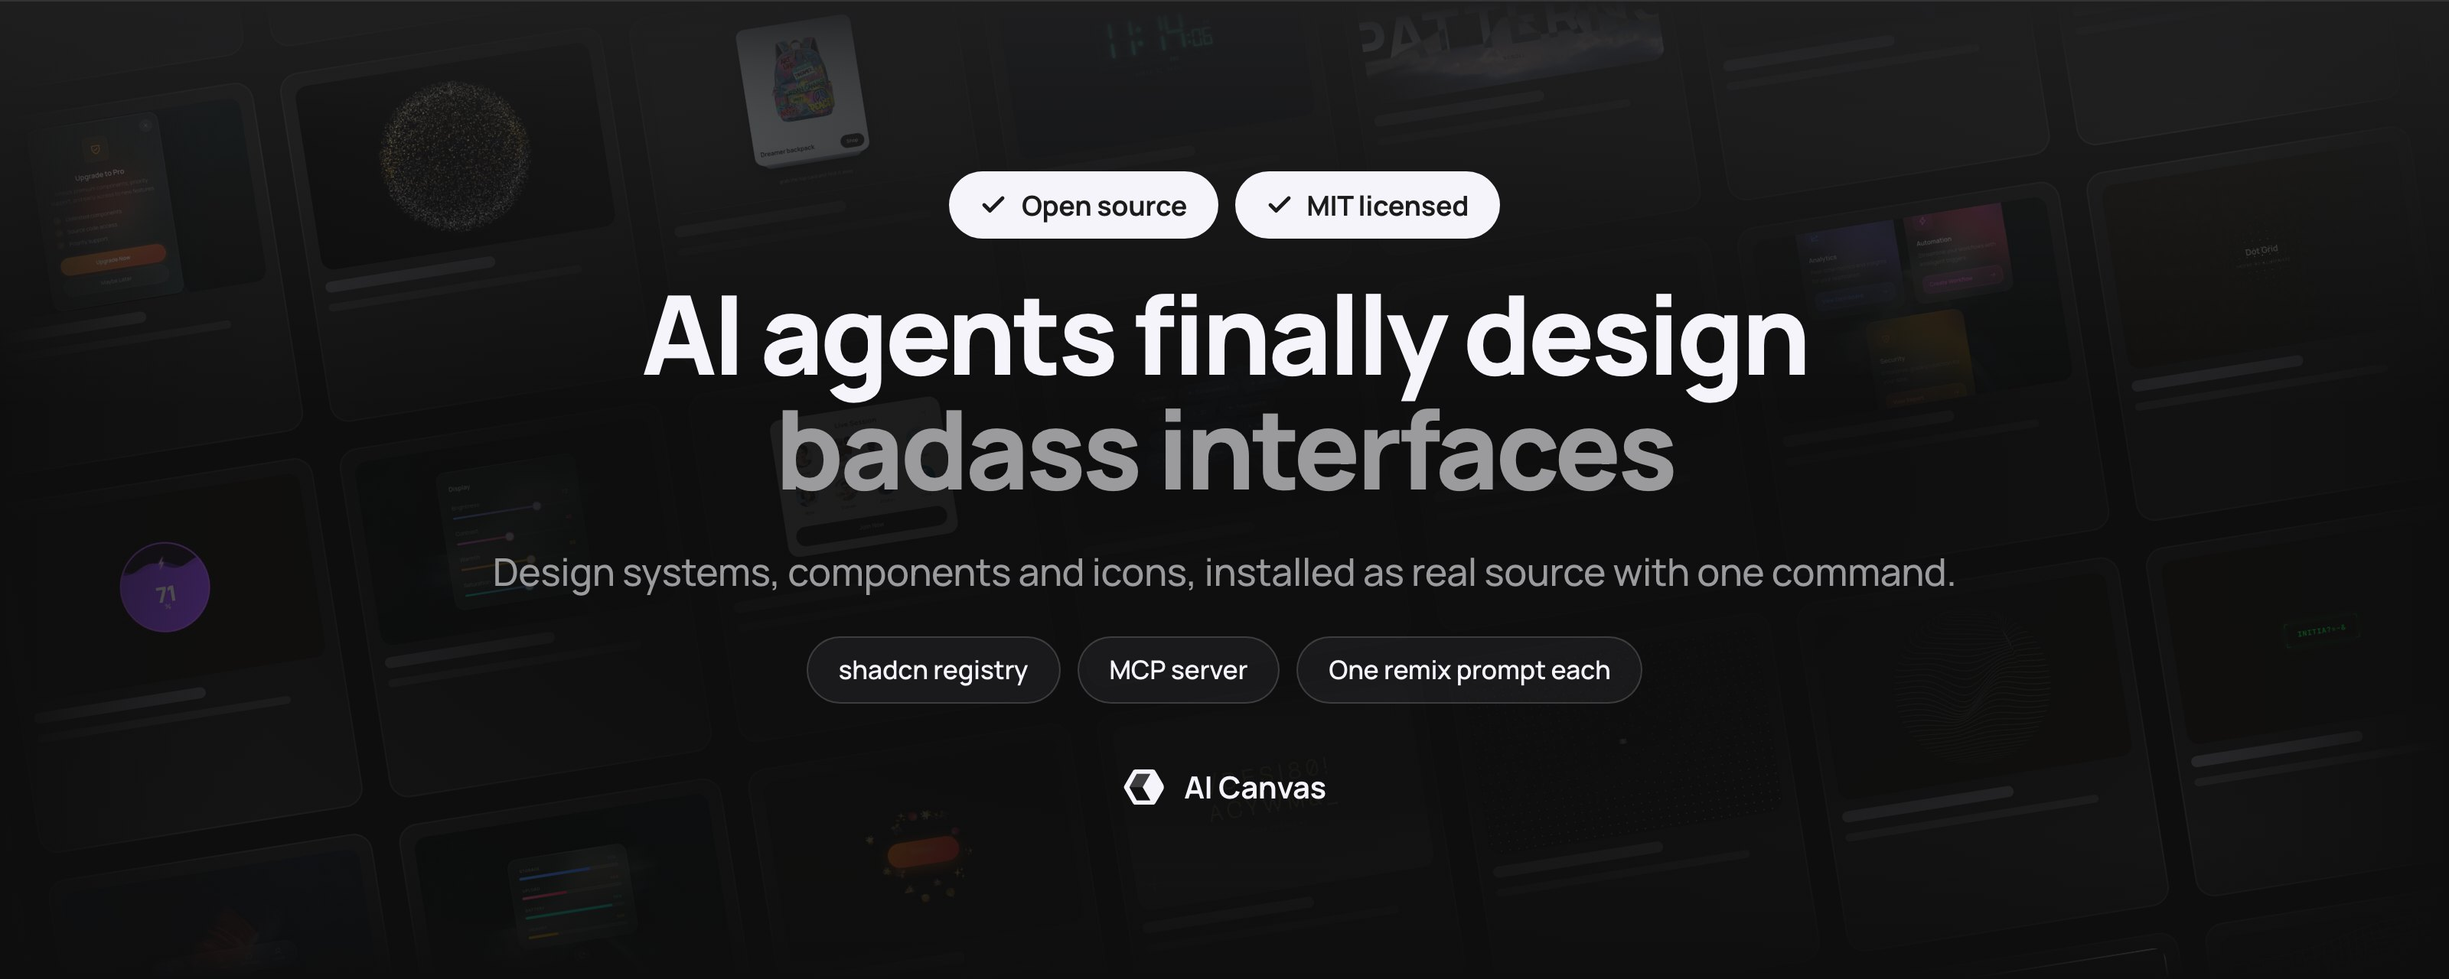
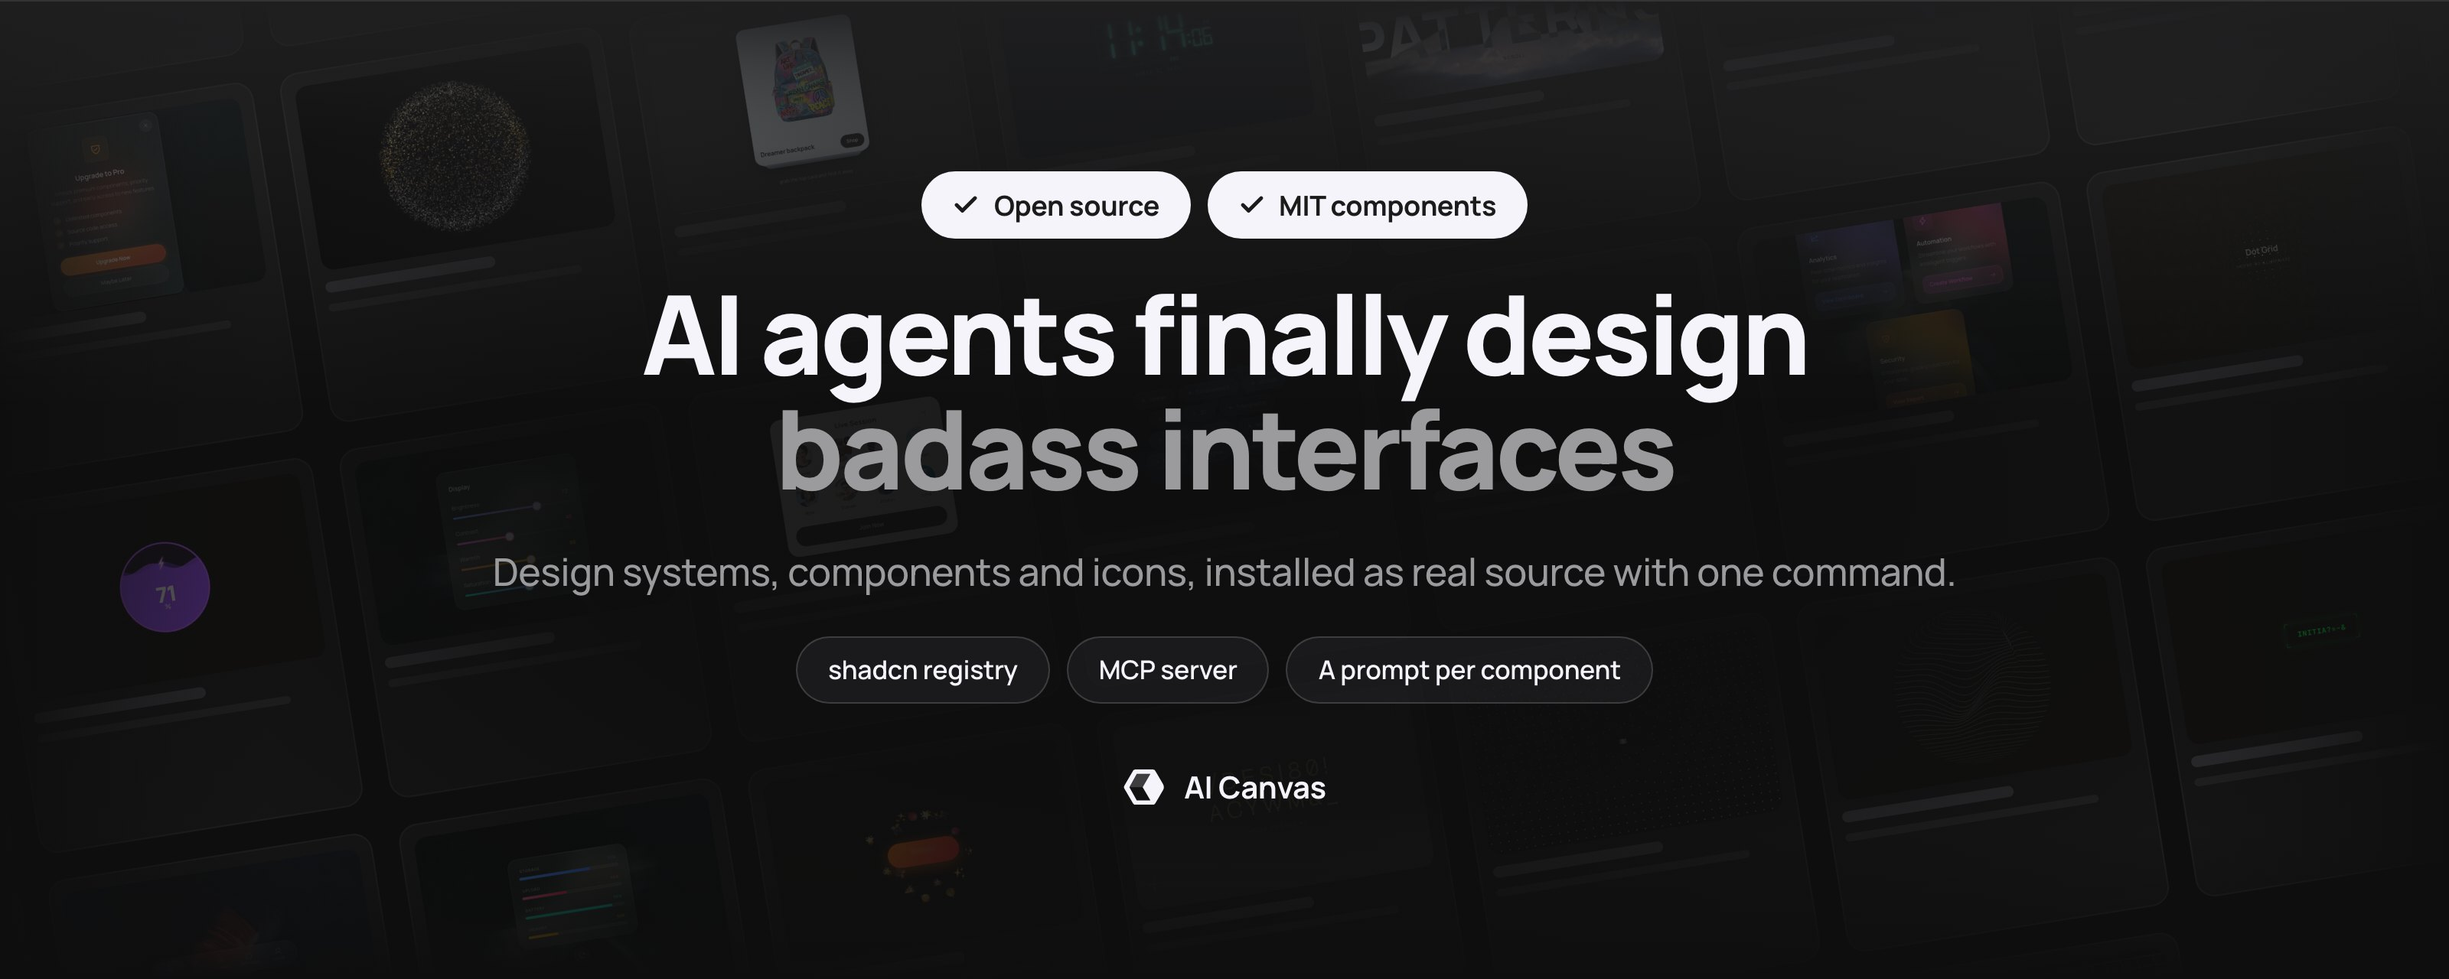
Keyless clone survives hydration, MCP door cases run without the vault
SessionProvider called createClient() in an effect, so a keyless clone blanked
the page through the root error boundary after rendering it; the guard is a
function now. The banner refuses to write a blank tile, engines is gone (a range
can move Vercel's runtime), and the placeholder warning is above the fold again.

Changed region(s): [[0.3438, 0.6562, 0.6562, 0.7188], [0.375, 0.1562, 0.625, 0.25]]

diff --git a/app/api/mcp/route.test.ts b/app/api/mcp/route.test.ts
@@ -32,6 +32,11 @@ const mockedGetEntitlement = vi.mocked(getEntitlement)
 const TOKEN = 'aic_' + 'c'.repeat(48)
 const FREE_SLUG = 'peel-corner-reveal'
 const PREMIUM_SLUG = 'filter-menu'
+// The premium cases read the real registry-data/<premium slug>.json, which the
+// vault injects. A clone still runs every door, token and free-account case.
+const premiumInjected = existsSync(join(process.cwd(), 'registry-data', `${PREMIUM_SLUG}.json`))
+const itPremium = premiumInjected ? it : it.skip
+const describePremium = premiumInjected ? describe : describe.skip
 
 function rpc(method: string, params: unknown, auth: string | null = `Bearer ${TOKEN}`, url = 'https://mcp.aicanvas.me/') {
   const headers: Record<string, string> = {
@@ -219,7 +224,7 @@ describe('hosted MCP: AI agent sign-in', () => {
 describe('hosted MCP: a free account', () => {
   beforeEach(() => asPlan('free'))
 
-  it('labels premium items locked and free items included, with no command on a locked one', async () => {
+  itPremium('labels premium items locked and free items included, with no command on a locked one', async () => {
     const r = await call('list_components', { limit: 200 })
     const items = r.structuredContent!.components as Array<{ slug: string; access: string; installCommand?: string }>
     const premium = items.find((c) => c.slug === PREMIUM_SLUG)!
@@ -230,7 +235,7 @@ describe('hosted MCP: a free account', () => {
     expect(free.installCommand).toContain(`token=${TOKEN}`)
   })
 
-  it('returns a preview and an upgrade line for a locked component, never a placeholder as source', async () => {
+  itPremium('returns a preview and an upgrade line for a locked component, never a placeholder as source', async () => {
     const r = await call('get_component', { slug: PREMIUM_SLUG })
     expect(r.isError).toBeFalsy()
     expect(r.content[0].text).toContain('(locked)')
@@ -238,7 +243,7 @@ describe('hosted MCP: a free account', () => {
     expect(r.structuredContent!.code).toBeUndefined()
   })
 
-  it('search says how many results are locked and offers the upgrade', async () => {
+  itPremium('search says how many results are locked and offers the upgrade', async () => {
     const r = await call('search_components', { query: PREMIUM_SLUG.replace(/-/g, ' '), limit: 50 })
     const locked = r.structuredContent!.locked as number
     expect(locked).toBeGreaterThan(0)
@@ -247,7 +252,7 @@ describe('hosted MCP: a free account', () => {
     expect(r.content[0].text).toContain('Next: show the user')
   })
 
-  it('refuses an install command for a locked component', async () => {
+  itPremium('refuses an install command for a locked component', async () => {
     const r = await call('get_install_command', { slug: PREMIUM_SLUG })
     expect(r.isError).toBe(true)
     expect(r.content[0].text).toContain('https://aicanvas.me/pricing')
@@ -285,7 +290,7 @@ describe('hosted MCP: a free account', () => {
   })
 })
 
-describe('hosted MCP: a premium account', () => {
+describePremium('hosted MCP: a premium account', () => {
   beforeEach(() => asPlan('premium'))
 
   it('gets the real source of a premium component', async () => {

diff --git a/vitest.config.ts b/vitest.config.ts
@@ -2,19 +2,21 @@ import { existsSync } from 'node:fs'
 import { fileURLToPath } from 'node:url'
 import { defineConfig } from 'vitest/config'
 
-// Three suites read trees that arrive from the private vault at build time:
-// the Andromeda Pro matrix, the hosted-MCP route (it asserts on a premium slug)
-// and the icon download route (it asserts on the built icon set). A clone without
-// the vault has none of that, so they are excluded there instead of failing a
-// contributor's `npm test` for something they cannot have. With the vault
-// present nothing is skipped.
+// Some suites read trees that arrive from the private vault at build time: the
+// Andromeda Pro matrix and tone rules, and the icon download route. A clone has
+// none of that, so they are excluded there instead of failing a contributor's
+// `npm test` for content they cannot have. With the vault present nothing is
+// excluded, and the warning below is what keeps a skipped premium suite from
+// passing for a full run before a ship. The hosted-MCP route is NOT excluded:
+// its door cases need no vault and it skips only its premium cases itself.
 const dir = (p: string) => fileURLToPath(new URL(p, import.meta.url))
 const premiumInjected = existsSync(dir('./design-systems/andromeda-pro/components'))
 const iconsBuilt = existsSync(dir('./.icons-source'))
 const vaultOnly = [
-  ...(premiumInjected ? [] : ['app/_lib/andromeda-pro/**', 'app/api/mcp/route.test.ts']),
+  ...(premiumInjected ? [] : ['app/_lib/andromeda-pro/**']),
   ...(iconsBuilt ? [] : ['app/api/icons/**']),
 ]
+if (vaultOnly.length) console.warn(`vitest: no vault on disk, not running ${vaultOnly.join(', ')}`)
 
 export default defineConfig({
   resolve: {

diff --git a/app/components/auth/SessionProvider.tsx b/app/components/auth/SessionProvider.tsx
@@ -3,6 +3,7 @@
 import { createContext, useCallback, useContext, useEffect, useState, type ReactNode } from 'react'
 import type { User } from '@supabase/supabase-js'
 import { createClient } from '../../lib/supabase/client'
+import { supabaseConfigured } from '../../lib/supabase/configured'
 import type { AiPlatform, PackageManager } from '../../lib/supabase/types'
 
 type Preferences = {
@@ -131,6 +132,10 @@ export function SessionProvider({
   }, [refreshSaved])
 
   useEffect(() => {
+    // Without the keys there is no session to watch, and createClient() throws:
+    // a clone with no env renders the catalog signed out instead of blanking the
+    // document through the root error boundary on hydration.
+    if (!supabaseConfigured()) return
     const supabase = createClient()
     const { data } = supabase.auth.onAuthStateChange((event, session) => {
       const next = session?.user ?? null

diff --git a/app/lib/supabase/configured.ts b/app/lib/supabase/configured.ts
@@ -1,5 +1,6 @@
-// A clone with no Supabase keys still serves the catalogue: the proxy and the
-// root layout skip the session read instead of constructing a client that throws.
-export const supabaseConfigured = Boolean(
-  process.env.NEXT_PUBLIC_SUPABASE_URL && process.env.NEXT_PUBLIC_SUPABASE_PUBLISHABLE_KEY,
-)
+// A clone with no Supabase keys serves the catalog: the proxy, the root layout and
+// the session provider skip the client instead of constructing one that throws.
+// Read per call, never once at module load: a server that receives its env at
+// runtime must not be frozen into "signed out" by what the bundle was built with.
+export const supabaseConfigured = () =>
+  Boolean(process.env.NEXT_PUBLIC_SUPABASE_URL && process.env.NEXT_PUBLIC_SUPABASE_PUBLISHABLE_KEY)

diff --git a/app/components/Sidebar.test.ts b/app/components/Sidebar.test.ts
@@ -208,7 +208,7 @@ describe('the catalog rail', () => {
     within(aside).getAllByRole('tab').find((t) => t.getAttribute('aria-selected') === 'true')?.getAttribute('aria-label')
 
   // Renders the whole rail for three routes: room for a busy machine.
-  it('carries no search, no logo, no site-page links and no rules', { timeout: 20_000 }, () => {
+  it('carries no search, no logo, no site-page links and no rules', { timeout: 60_000 }, () => {
     for (const path of ['/components', '/components/category/widgets', '/design-systems/andromeda-pro']) {
       const aside = rail(path)
       expect(aside.querySelector('input'), path).toBeNull()

diff --git a/app/lib/supabase/proxy.ts b/app/lib/supabase/proxy.ts
@@ -6,7 +6,7 @@ export async function updateSession(request: NextRequest) {
   let supabaseResponse = NextResponse.next({ request })
 
   // No keys, no session to refresh: a fresh clone browses signed out.
-  if (!supabaseConfigured) return supabaseResponse
+  if (!supabaseConfigured()) return supabaseResponse
 
   const supabase = createServerClient(
     process.env.NEXT_PUBLIC_SUPABASE_URL!,

diff --git a/app/layout.tsx b/app/layout.tsx
@@ -162,7 +162,7 @@ export default async function RootLayout({
     )
   }
 
-  const user = supabaseConfigured
+  const user = supabaseConfigured()
     ? (await (await createClient()).auth.getUser()).data.user
     : null
 

diff --git a/README.md b/README.md
@@ -7,19 +7,16 @@
 <h1 align="center">AI Canvas</h1>
 
 <p align="center">
-  <em>AI agents finally design badass interfaces.</em>
-</p>
-
-<p align="center">
+  <strong>Finished components, not headless primitives.</strong><br />
   Complete React design systems for Claude, Codex, Cursor or any AI agent, plus
-  <strong>78 free MIT components and blocks</strong> that fit any of them.
-  Installed as real source code in your project, never as a dependency.
+  <strong>78 free MIT components and blocks</strong> that fit any of them,
+  installed as real source code in your project, never as a dependency.
 </p>
 
 <p align="center">
   <a href="https://github.com/birobirobiro/awesome-shadcn-ui"><img src="https://awesome.re/mentioned-badge-flat.svg" alt="Mentioned in Awesome shadcn/ui" /></a>
   <a href="https://github.com/aicanvas-me/aicanvas/stargazers"><img src="https://img.shields.io/github/stars/aicanvas-me/aicanvas?style=flat-square&label=stars&labelColor=0E0E0F&color=2D2D2E" alt="GitHub stars" /></a>
-  <a href="https://www.npmjs.com/package/@aicanvas/mcp"><img src="https://img.shields.io/npm/dm/%40aicanvas%2Fmcp?style=flat-square&label=mcp%20installs&labelColor=0E0E0F&color=2D2D2E" alt="MCP server installs per month" /></a>
+  <a href="https://www.npmjs.com/package/@aicanvas/mcp"><img src="https://img.shields.io/npm/dm/%40aicanvas%2Fmcp?style=flat-square&label=mcp%20downloads&labelColor=0E0E0F&color=2D2D2E" alt="MCP server downloads per month" /></a>
   <a href="./LICENSE"><img src="https://img.shields.io/badge/license-MIT-2D2D2E?style=flat-square&labelColor=0E0E0F" alt="License: MIT" /></a>
 </p>
 
@@ -46,18 +43,18 @@ npx shadcn@latest add @aicanvas/task-cards
 
 Starting a new project? `npx shadcn@latest init` first, then add.
 
+**Signed out, that command writes a placeholder file instead of the component.**
+The CLI install is tied to a free AI Canvas account, and the setup below takes a
+minute. Reading and copying the code needs no account at all: every component
+page shows its full source, and every free component is in this repo under
+[`components-workspace/`](./components-workspace).
+
 <details>
-<summary><strong>Registry setup and the free account</strong></summary>
+<summary><strong>Set up the registry once</strong></summary>
 
 <br />
 
-Reading and copying the code needs no account: every component page on the site
-shows its full source, and most of the free library is in this repo under
-[`components-workspace/`](./components-workspace).
-
-The one-command CLI install is tied to a free AI Canvas account. Signed out, the
-registry hands the CLI a placeholder file instead of the component, so
-authenticate once first:
+Authenticate first and the install works from then on:
 
 1. [Sign up free](https://aicanvas.me/account/sign-up), then copy your token from
    [account settings](https://aicanvas.me/account/settings).
@@ -70,7 +67,8 @@ authenticate once first:
 
 Every `npx shadcn@latest add @aicanvas/<slug>` is authenticated after that, and
 every component page shows a ready tokenized command while you are signed in.
-`pnpm dlx`, `yarn dlx` and `bunx` work the same way.
+`pnpm dlx`, `yarn dlx` and `bunx` work the same way. The same account covers the
+free design system and its templates.
 
 Full details: [Installation](https://aicanvas.me/docs/installation) and
 [components.json](https://aicanvas.me/docs/components-json).
@@ -90,13 +88,18 @@ is the default target, not a requirement.
 | **Standalone components and blocks** | 78, MIT, in this repo | 20 |
 | **Design systems** | Andromeda Legacy: 39 components, 4 templates, MIT, in this repo | Andromeda Pro: 69 components, 9 templates |
 | **Icons** | Line style, 820 icons, free with a credit line | Duotone, Solid, Solid duotone |
-| **Remix prompts** | One per free component | Behind the Premium gate |
+| **Remix prompts** | One per free component | The setup is public, the rest needs Premium |
 
 The icons are the one free thing that is not MIT and not in this repo: they are
-drawn in a private source and served through the registry, free to install with a
-one-line credit in your code.
+drawn in a private source and served through the registry. Free to install, with
+two conditions: keep the AI Canvas notice at the top of each icon file, and name
+AI Canvas in your credits or licence file when you publish your source. Full
+terms: [Licensing](https://aicanvas.me/docs/licensing) and the
+[Premium License](https://aicanvas.me/premium-license).
+[Pricing](https://aicanvas.me/pricing) covers what Premium costs.
 
-Premium pays for the free library, and the free library stays free: MIT means you
+[Premium](https://aicanvas.me/pricing) pays for the free library, and the free
+library stays free: MIT means you
 can use it in commercial work, change it and ship it, with no credit in your app
 and no permission to ask. The MIT notice travels with the code, as MIT requires.
 The Premium lane is a separate, closed-source catalog, not a crippled free tier.
@@ -105,7 +108,8 @@ The Premium lane is a separate, closed-source catalog, not a crippled free tier.
 
 Every row links to the live catalog, where each component has a running preview,
 its full source and its remix prompt. A component can sit in two categories, so
-the column does not add up to 78.
+the column does not add up to 78, and each page also lists that category's
+Premium items, which the column does not count.
 
 | Category | Free | What's in it |
 | --- | --- | --- |
@@ -140,6 +144,8 @@ an agent can build a whole screen instead of pasting one card.
 ```bash
 npx shadcn@latest add @aicanvas/andromeda          # the free system, 39 components
 ```
+
+Same free account as a single component, and the same placeholder when signed out.
 
 **Andromeda Legacy** is MIT and lives in
 [`design-systems/andromeda/`](./design-systems/andromeda): tokens, components,
@@ -224,15 +230,15 @@ npm run dev
 ```
 
 http://localhost:3001 serves the whole free catalog with no API keys.
-[CONTRIBUTING.md](./CONTRIBUTING.md) covers what each key unlocks, the checks CI
-runs, and how to add a component.
+[CONTRIBUTING.md](./CONTRIBUTING.md) covers what the optional keys unlock, the
+checks CI runs, and how to add a component.
 
 ## Common questions
 
 **Do I need an account?**
 Not to read or copy the code. Every component page shows its full source, and
-most of the free library is in this repo. A free account is only needed for the
-one-command `npx shadcn add` install.
+every free component and the free design system are in this repo. A free account
+is only needed for the one-command `npx shadcn add` install.
 
 **Does it work outside Next.js?**
 Yes. Components are plain React and TypeScript with Tailwind and Framer Motion.

diff --git a/CONTRIBUTING.md b/CONTRIBUTING.md
@@ -43,7 +43,7 @@ here. A clone builds the free library only, and that is the supported path.
 | Path | What's there |
 | --- | --- |
 | `components-workspace/<slug>/` | One free component: `index.tsx`, `prompts.ts`, often a `spec.md` |
-| `design-systems/andromeda/` | The free Andromeda design system: tokens, components, utilities |
+| `design-systems/andromeda/` | Andromeda Legacy, the free design system: tokens, components, utilities, templates |
 | `app/` | The aicanvas.me website (Next.js App Router) |
 | `app/lib/component-registry.tsx` | The catalog index. Append-only: slugs are a public contract |
 | `scripts/generate-registry.mjs` | Builds the shadcn registry JSON from the sources above |
@@ -69,21 +69,26 @@ here. A clone builds the free library only, and that is the supported path.
 ## Before you open a pull request
 
 ```bash
+npm run generate     # the generated files tsc and the tests read
 npx tsc --noEmit
 npm test
 ```
 
-Both must pass, and CI runs them on every pull request. `npm run lint` is worth a
+All three, in that order: without `npm run generate` the typecheck fails on
+modules that do not exist yet. CI runs exactly this sequence on every pull
+request. `npm run lint` is worth a
 look but is not a gate: the tree carries pre-existing eslint errors, so chase the
 ones in your own files and ignore the rest.
 
-Two more checks run on every pull request: one that no premium file leaked into
-the public tree, and, when you touch the files they watch, a prompt linter
+Three more checks guard the tree: one that no premium file leaked, on every pull
+request, and two that run when you touch the files they watch, a prompt linter
 (`prompts.ts`) and an Andromeda contrast check. Keep the diff to one subject.
 
-Without the private vault, three suites are skipped rather than failed: the
-Andromeda Pro matrix, the hosted-MCP route and the icon download route. They
-assert on content a clone does not have. `vitest.config.ts` has the detail.
+Without the private vault, the suites that read it do not run: the Andromeda Pro
+matrix and tone rules and the icon download route are excluded (vitest prints a
+line saying so), and the hosted-MCP suite skips its premium cases and keeps the
+rest. Nothing fails for content a clone cannot have. `vitest.config.ts` has the
+detail.
 
 ## Reporting a bug
 

diff --git a/CODE_OF_CONDUCT.md b/CODE_OF_CONDUCT.md
@@ -25,7 +25,8 @@ where someone is representing the project.
 
 Report through the repository's
 [Security tab](https://github.com/aicanvas-me/aicanvas/security/advisories/new),
-which is private, or by replying to the maintainer on the thread if it is a
-public matter. Reports are read by the maintainer only. The response is one of:
+which is private, through the contact form at
+[aicanvas.me/contact](https://aicanvas.me/contact), or on the thread itself if it
+is a public matter. Reports are read by the maintainer only. The response is one of:
 a note, a removed comment, or a block. Serious or repeated behaviour skips
 straight to a block.

diff --git a/SECURITY.md b/SECURITY.md
@@ -10,8 +10,12 @@ Please do not open a public issue, a pull request or a discussion for a
 vulnerability.
 
 What helps: the affected route, file or component, what an attacker can do with
-it, and a reproduction. First response within 72 hours, and a fix or a plan
-before any public disclosure.
+it, and a reproduction. This is a one-person project, so expect a first reply
+within a few days, then a fix or a plan before any public disclosure. There is
+no bug bounty.
+
+Report in good faith, stay inside the scope below, stop as soon as you can
+demonstrate the issue, and no action will be taken against you for it.
 
 ## Scope
 

diff --git a/.github/PULL_REQUEST_TEMPLATE.md b/.github/PULL_REQUEST_TEMPLATE.md
@@ -8,9 +8,9 @@
 
 ## Checklist
 
-- [ ] `npx tsc --noEmit` and `npm test` pass locally
+- [ ] `npm run generate`, then `npx tsc --noEmit` and `npm test`, pass locally
 - [ ] Works in light and dark
 - [ ] Checked on a phone width (375px) if anything visual changed
-- [ ] A new component has its `prompts.ts` and a `app/lib/component-registry.tsx` entry
+- [ ] A new component has its `prompts.ts` and an `app/lib/component-registry.tsx` entry
 - [ ] No existing slug renamed or removed (slugs are a public contract)
 - [ ] No secrets, no `.env.local`, no premium files
